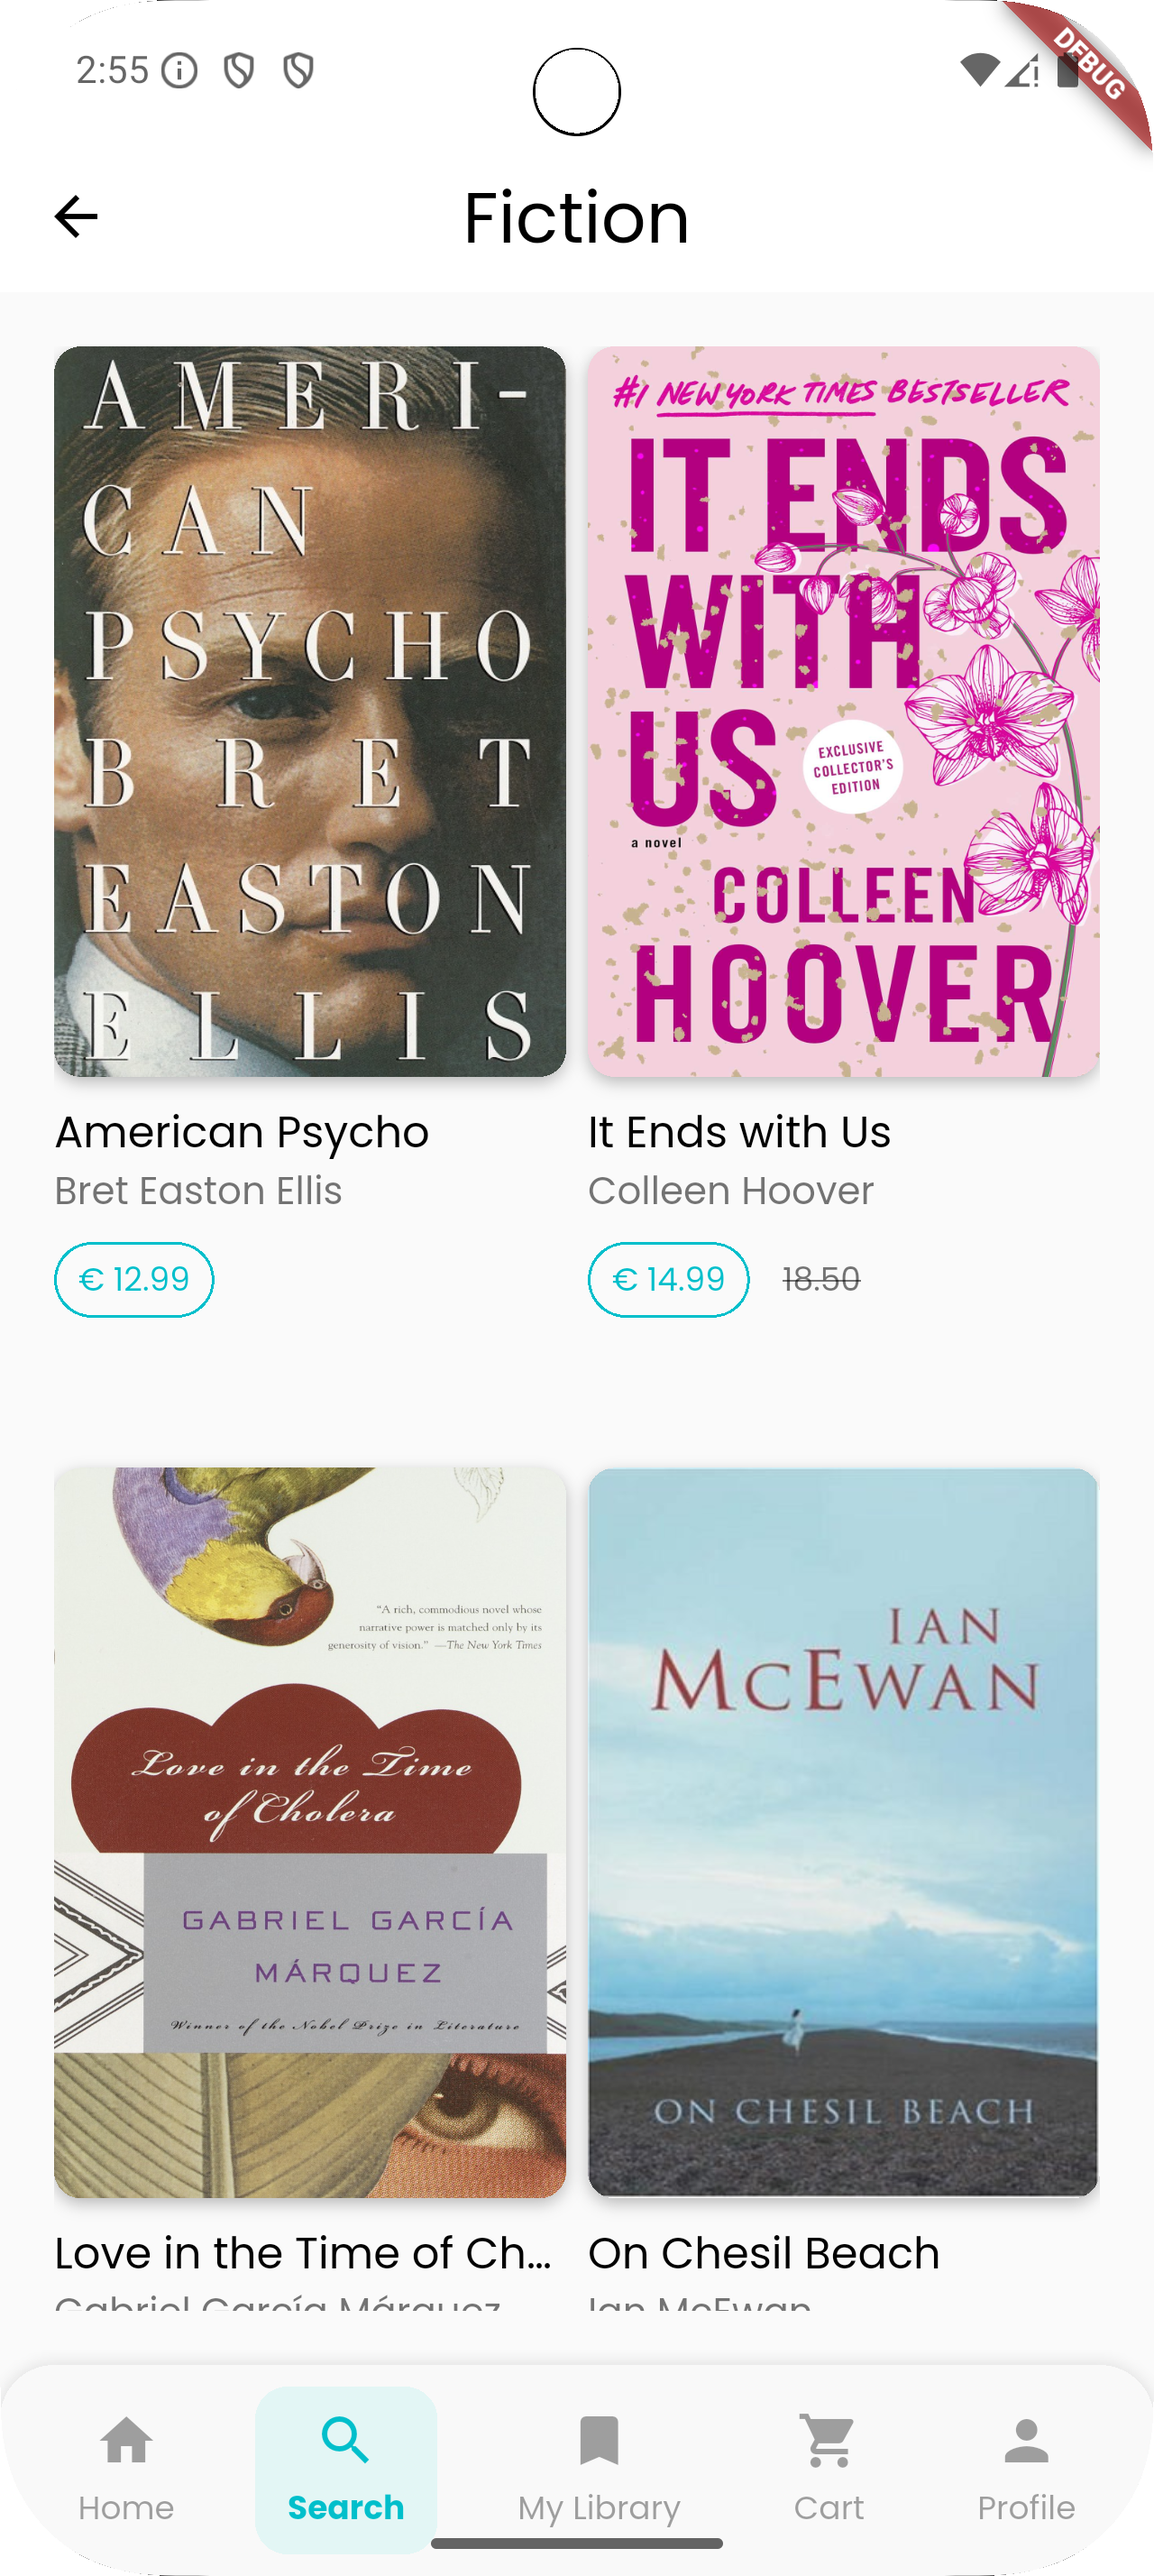
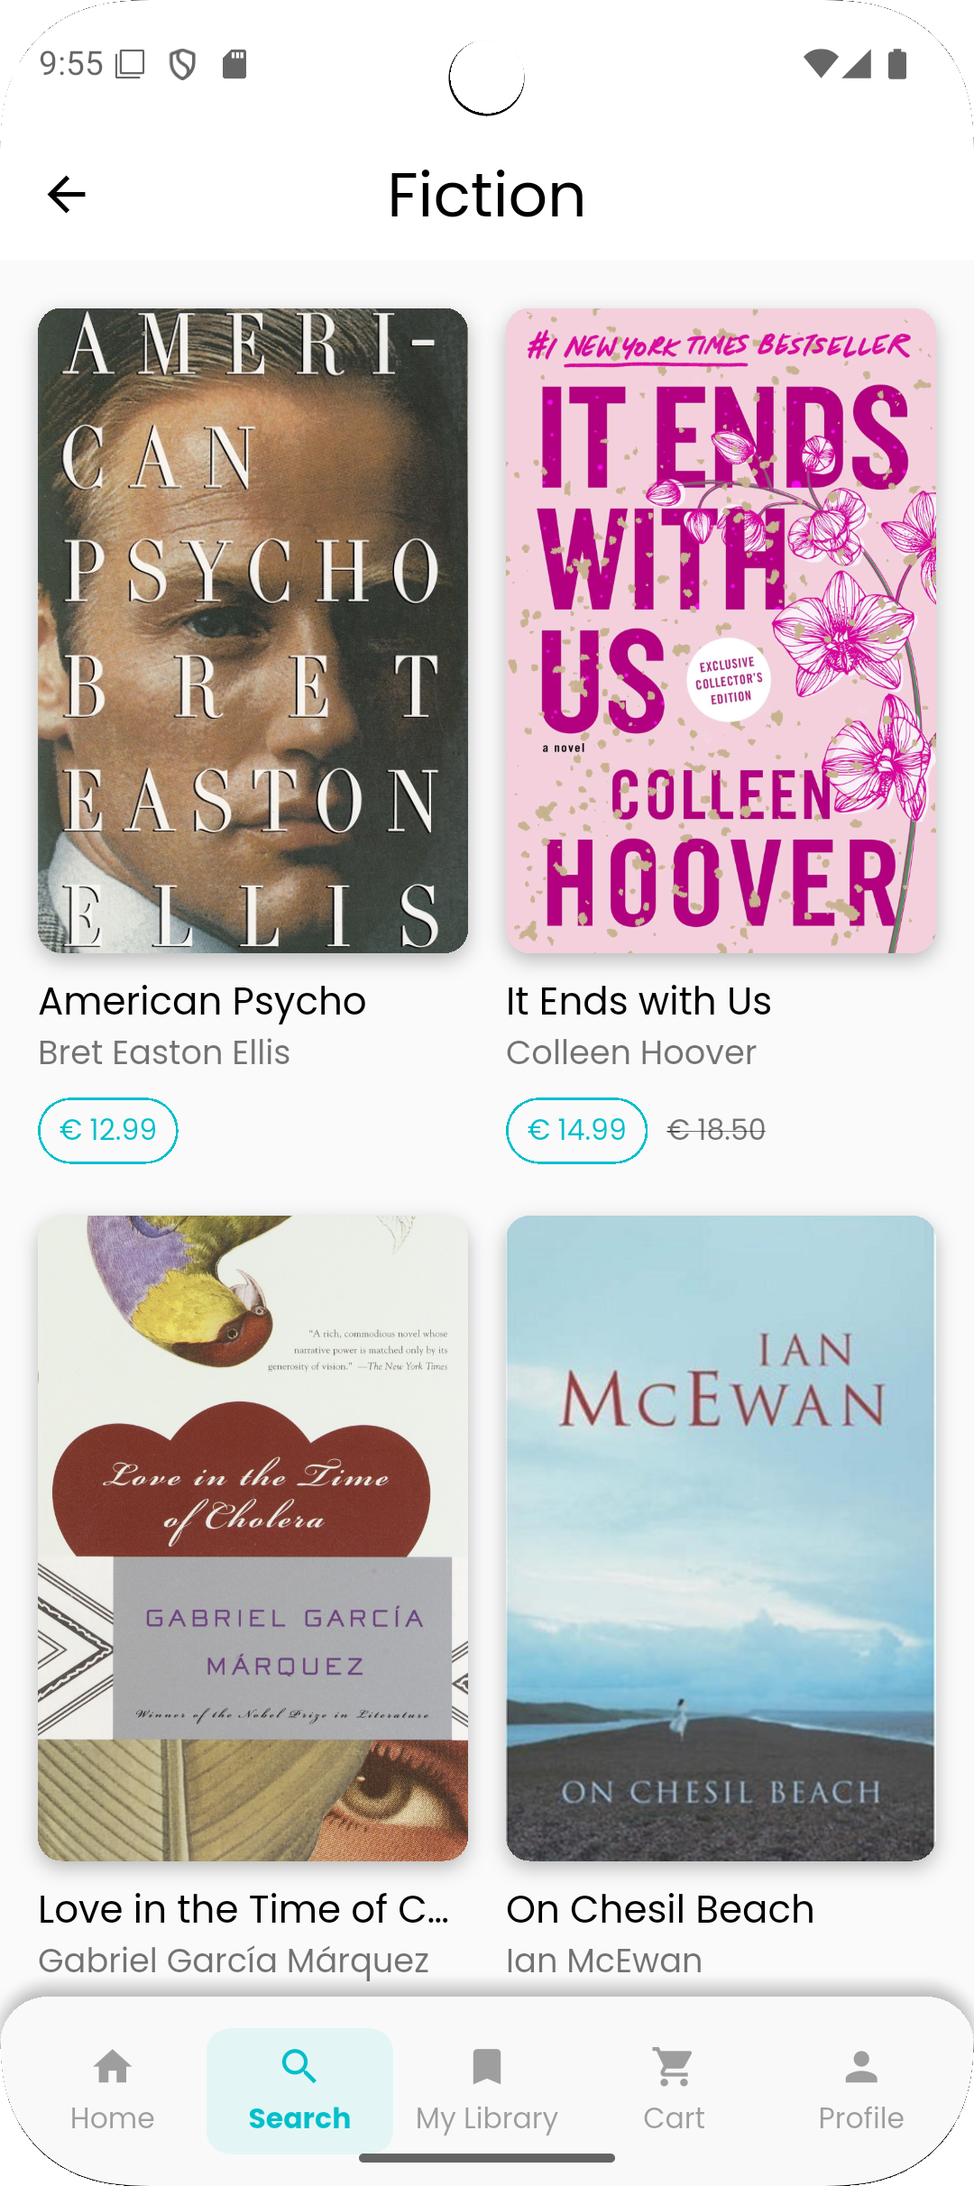
add new screenshots

diff --git a/lib/presentation/pages/account_page.dart b/lib/presentation/pages/account_page.dart
@@ -117,7 +117,6 @@ class _AccountPageState extends State<AccountPage> {
     }
   }
 
-
   @override
   Widget build(BuildContext context) {
     final user = FirebaseAuth.instance.currentUser;
@@ -143,7 +142,6 @@ class _AccountPageState extends State<AccountPage> {
                     isUploading: _isUploading,
                     onTap: _pickAndSaveLocalImage,
                   ),
-
                 ),
                 const SizedBox(height: 16),
                 Center(
@@ -229,7 +227,15 @@ class _AccountPageState extends State<AccountPage> {
     showDialog(
       context: context,
       builder: (context) => AlertDialog(
-        title: const Text('Change Password'),
+        title: const Text(
+          'Change Password',
+          style: TextStyle(
+            color: DesignConfig.textColor,
+            fontSize: DesignConfig.textSize,
+            fontFamily: DesignConfig.fontFamily,
+            fontWeight: DesignConfig.bold,
+          ),
+        ),
         content: CustomTextField(
           labelText: 'New Password',
           controller: newPasswordController,
@@ -238,7 +244,13 @@ class _AccountPageState extends State<AccountPage> {
         actions: [
           TextButton(
             onPressed: () => Navigator.pop(context),
-            child: const Text('Cancel'),
+            child: const Text(
+              'Cancel',
+              style: TextStyle(
+                color: DesignConfig.primaryColor,
+                fontFamily: DesignConfig.fontFamily,
+              ),
+            ),
           ),
           TextButton(
             onPressed: () async {
@@ -247,7 +259,7 @@ class _AccountPageState extends State<AccountPage> {
                 ScaffoldMessenger.of(context).showSnackBar(
                   const SnackBar(
                     content: Text('Password must be at least 6 characters'),
-                    backgroundColor: Colors.orange,
+                    backgroundColor: DesignConfig.secondColor,
                   ),
                 );
                 return;
@@ -274,7 +286,13 @@ class _AccountPageState extends State<AccountPage> {
                 );
               }
             },
-            child: const Text('Save'),
+            child: const Text(
+              'Save',
+              style: TextStyle(
+                color: DesignConfig.secondColor,
+                fontFamily: DesignConfig.fontFamily,
+              ),
+            ),
           ),
         ],
       ),
@@ -285,13 +303,36 @@ class _AccountPageState extends State<AccountPage> {
     showDialog(
       context: context,
       builder: (context) => AlertDialog(
-        title: const Text('Delete Account'),
-        content: const Text('Are you sure you want to delete your account?'),
+        title: const Text(
+          'Delete Account',
+
+          style: TextStyle(
+            color: DesignConfig.textColor,
+            fontSize: DesignConfig.textSize,
+            fontFamily: DesignConfig.fontFamily,
+            fontWeight: DesignConfig.bold,
+          ),
+        ),
+        content: const Text('Are you sure you want to delete your account?',
+
+          style: TextStyle(
+          color: DesignConfig.textColor,
+          fontSize: DesignConfig.subTextSize,
+          fontFamily: DesignConfig.fontFamily,
+          fontWeight: DesignConfig.light,
+        ),),
         actions: [
           TextButton(
             onPressed: () => Navigator.pop(context),
-            child: const Text('Cancel'),
+            child: const Text(
+              'Cancel',
+              style: TextStyle(
+                color: DesignConfig.primaryColor,
+                fontFamily: DesignConfig.fontFamily,
+              ),
+            ),
           ),
+
           TextButton(
             onPressed: () async {
               Navigator.pop(context);
@@ -316,7 +357,9 @@ class _AccountPageState extends State<AccountPage> {
             },
             child: const Text(
               'Delete',
-              style: TextStyle(color: DesignConfig.deleteCart),
+              style: TextStyle(color: DesignConfig.deleteCart,
+                fontFamily: DesignConfig.fontFamily,
+              ),
             ),
           ),
         ],

diff --git a/lib/presentation/pages/cart_page.dart b/lib/presentation/pages/cart_page.dart
@@ -171,15 +171,14 @@ class _CartPageState extends ConsumerState<CartPage>
                 : 2;
 
             return Padding(
-              padding:
-              const EdgeInsets.symmetric(horizontal: 16, vertical: 20),
+              padding: const EdgeInsets.fromLTRB(20, 20, 20, 0),
               child: GridView.builder(
                 itemCount: books.length,
                 gridDelegate: SliverGridDelegateWithFixedCrossAxisCount(
                   crossAxisCount: crossAxisCount,
-                  childAspectRatio: 0.5,
-                  crossAxisSpacing: 16,
-                  mainAxisSpacing: 16,
+                  childAspectRatio: 0.48,
+                  crossAxisSpacing: 20,
+                  mainAxisSpacing: 20,
                 ),
                 itemBuilder: (_, i) {
                   final b = books[i];

diff --git a/lib/presentation/pages/search_page.dart b/lib/presentation/pages/search_page.dart
@@ -47,7 +47,6 @@ class _SearchPageState extends ConsumerState<SearchPage> {
           child: Column(
             crossAxisAlignment: CrossAxisAlignment.start,
             children: [
-              // ─ Search field, categories, results label ─
               Padding(
                 padding: const EdgeInsets.fromLTRB(20, 20, 20, 0),
                 child: TextField(
@@ -113,7 +112,6 @@ class _SearchPageState extends ConsumerState<SearchPage> {
               ),
               const SizedBox(height: 12),
 
-              // Wrap GridView.builder in SizedBox
               SizedBox(
                 height: MediaQuery.of(context).size.height * 0.6,
                 child: allBooksAsync.when(

diff --git a/lib/presentation/widgets/round_button.dart b/lib/presentation/widgets/round_button.dart
@@ -18,7 +18,7 @@ class RoundButton extends StatelessWidget {
         vertical: isTablet ? 10 : 8,
       ),
       decoration: BoxDecoration(
-        color: DesignConfig.lightBlue,
+        color: DesignConfig.primaryColor,
         borderRadius: DesignConfig.border,
       ),
       child: FittedBox(
@@ -31,7 +31,7 @@ class RoundButton extends StatelessWidget {
             fontSize: DesignConfig.textSize * scale,
             fontFamily: DesignConfig.fontFamily,
             fontWeight: DesignConfig.light,
-            color: DesignConfig.textColor,
+            color: DesignConfig.buttonTextColor,
           ),
         ),
       ),

diff --git a/lib/presentation/pages/discount_page.dart b/lib/presentation/pages/discount_page.dart
@@ -66,8 +66,8 @@ class DiscountPage extends ConsumerWidget {
                   : 2;
 
               return Padding(
-                padding: const EdgeInsets.symmetric(
-                    horizontal: 20, vertical: 20),
+                padding: const EdgeInsets.fromLTRB(20, 20, 20, 0),
+
                 child: GridView.builder(
                   itemCount: validDiscounts.length,
                   gridDelegate: SliverGridDelegateWithFixedCrossAxisCount(

diff --git a/lib/presentation/pages/new_arrival_page.dart b/lib/presentation/pages/new_arrival_page.dart
@@ -58,7 +58,7 @@ class NewArrivalPage extends ConsumerWidget {
                   : 2;
 
               return Padding(
-                padding: const EdgeInsets.symmetric(horizontal: 20, vertical: 20),
+                padding: const EdgeInsets.fromLTRB(20, 20, 20, 0),
                 child: GridView.builder(
                   itemCount: books.length,
                   gridDelegate: SliverGridDelegateWithFixedCrossAxisCount(
